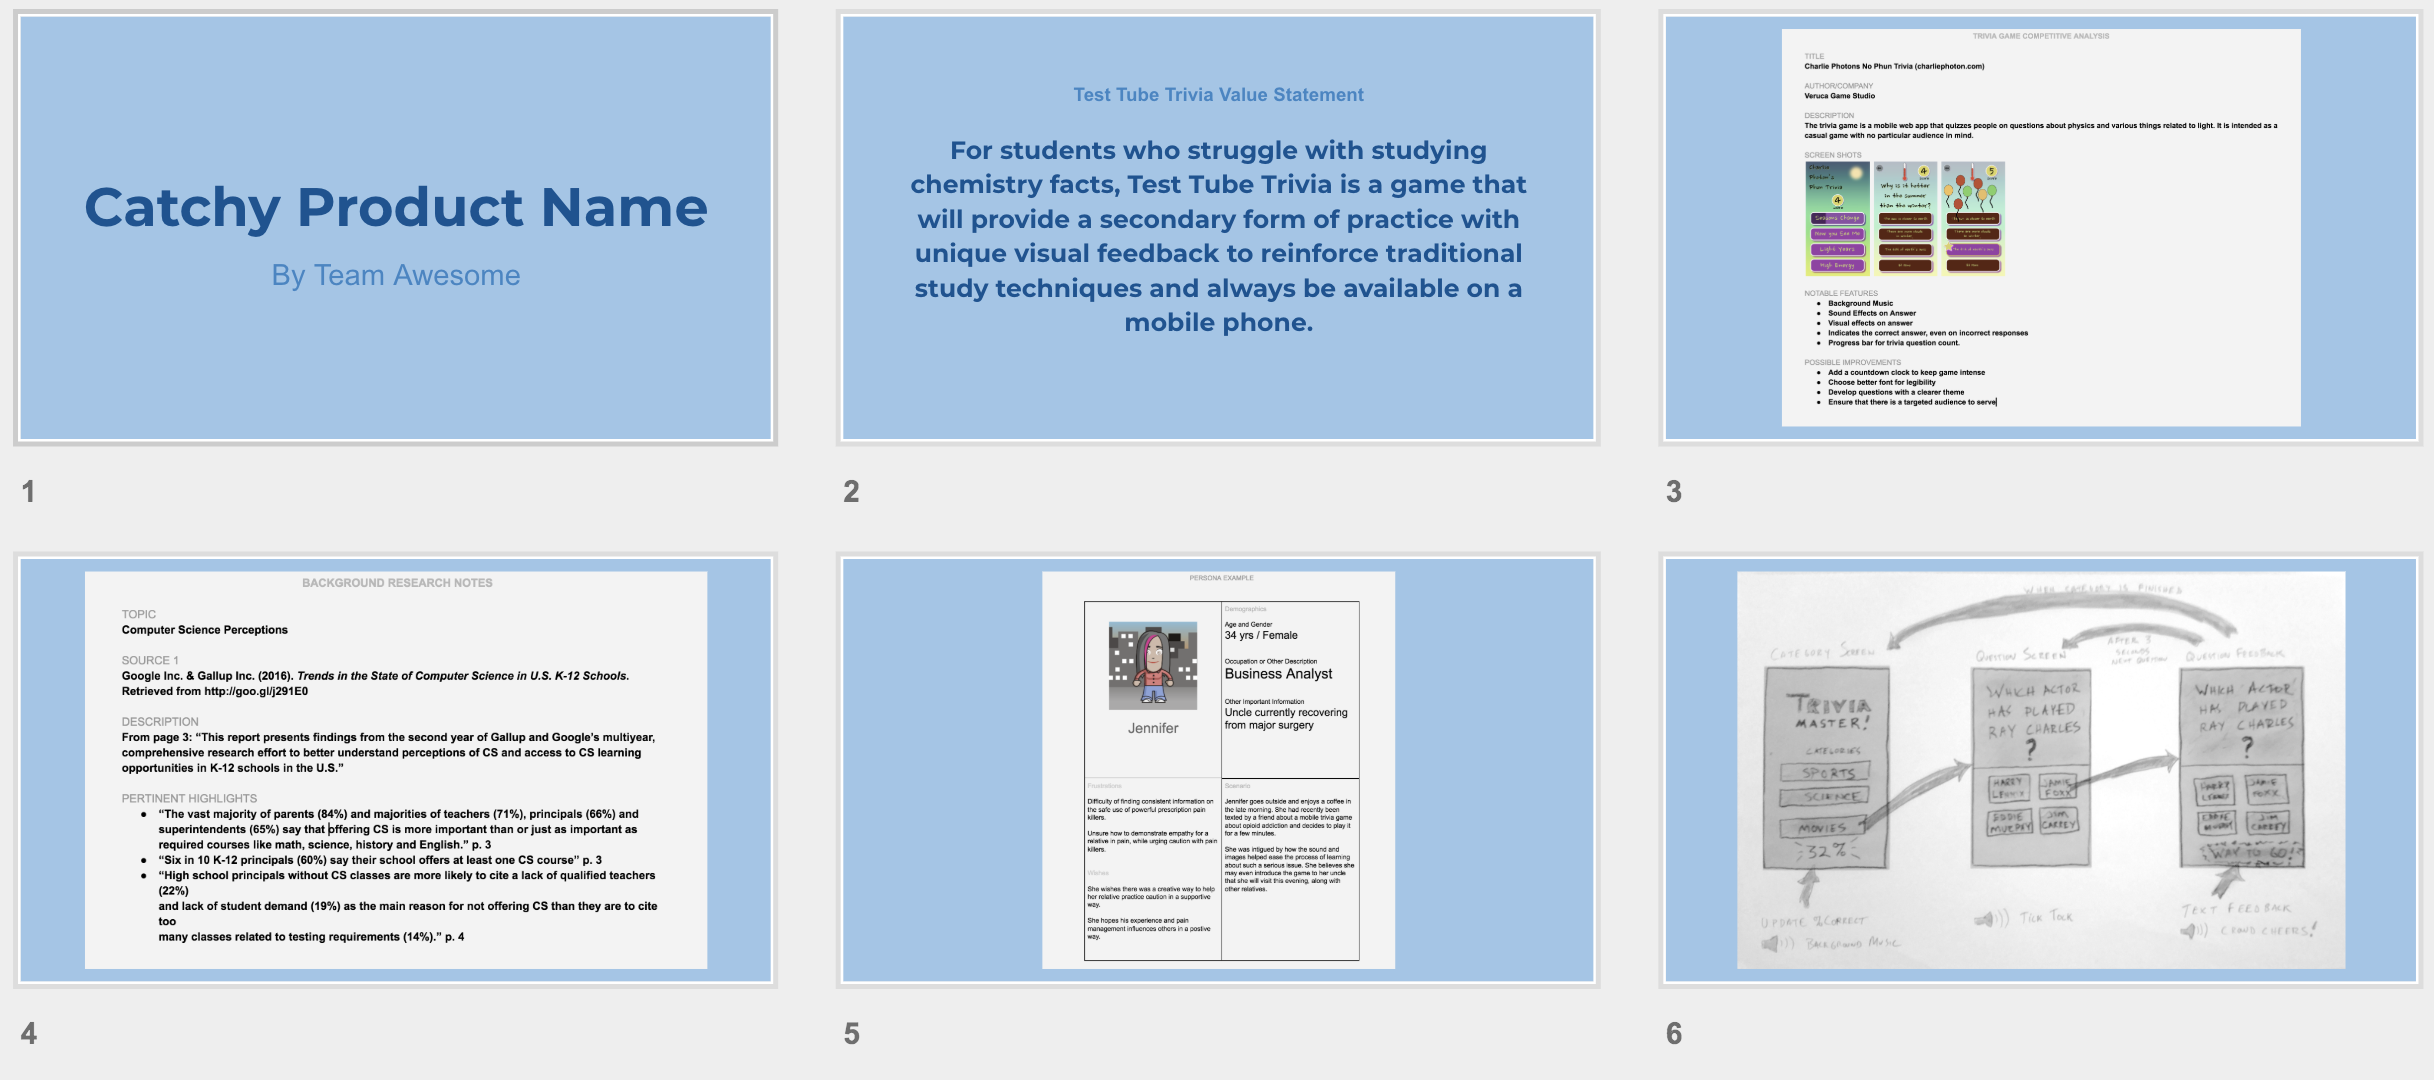
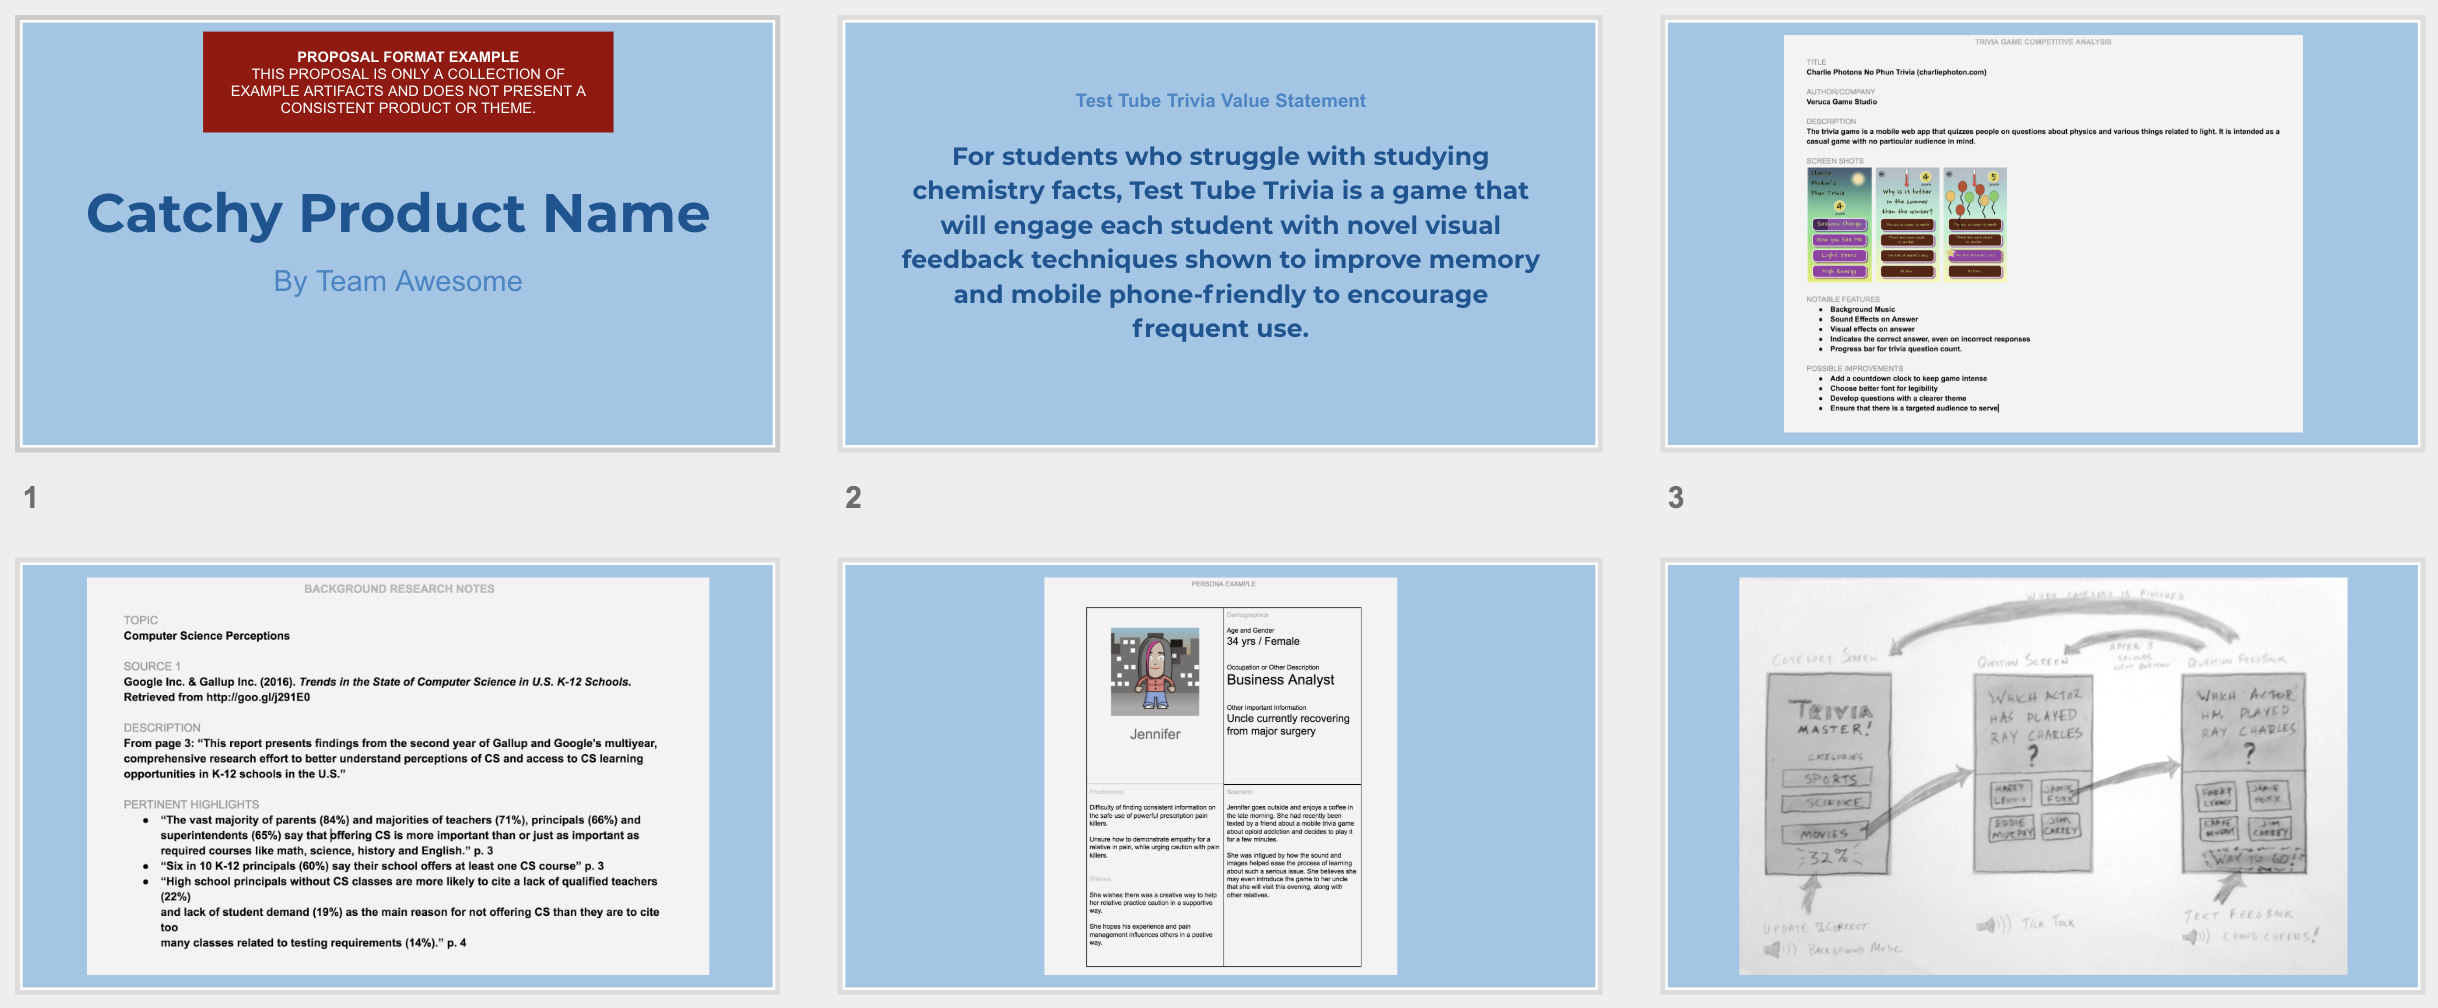
GitBook: [master] one page and 2 assets modified

diff --git a/project-instructions/1-discover-and-define-problem/1.7-team-proposal.md b/project-instructions/1-discover-and-define-problem/1.7-team-proposal.md
@@ -20,7 +20,7 @@ Your team's proposal as a collection of slides containing...
 {% tab title="⦿ EXAMPLE" %}
 
 
-![This is only an example of the types of artifacts you want in you proposal, since each of these are not drawn from one consistent concept.](../../.gitbook/assets/proposalexample.png)
+![](../../.gitbook/assets/proposalexample.png)
 {% endtab %}
 
 {% tab title="★  RUBRIC" %}
